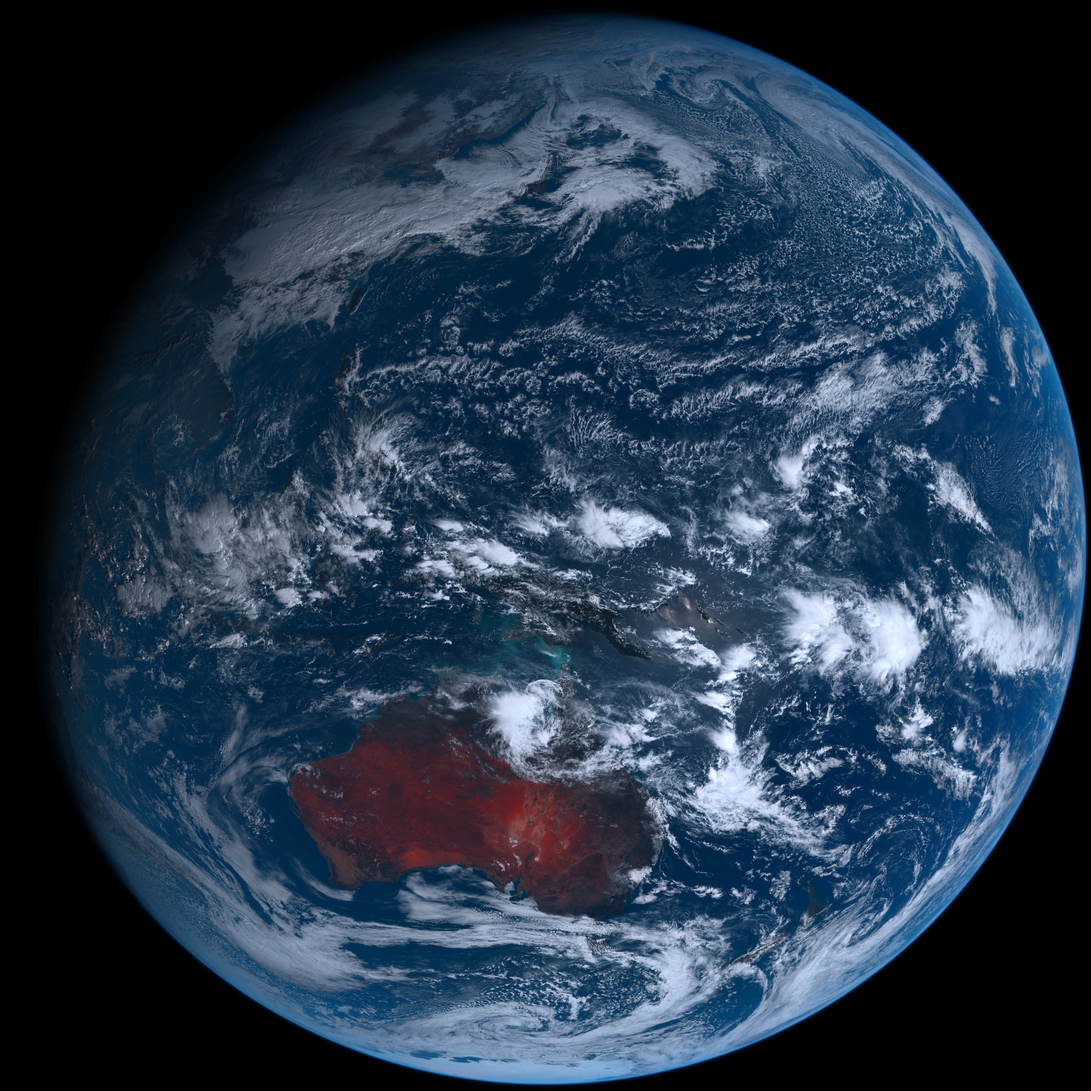
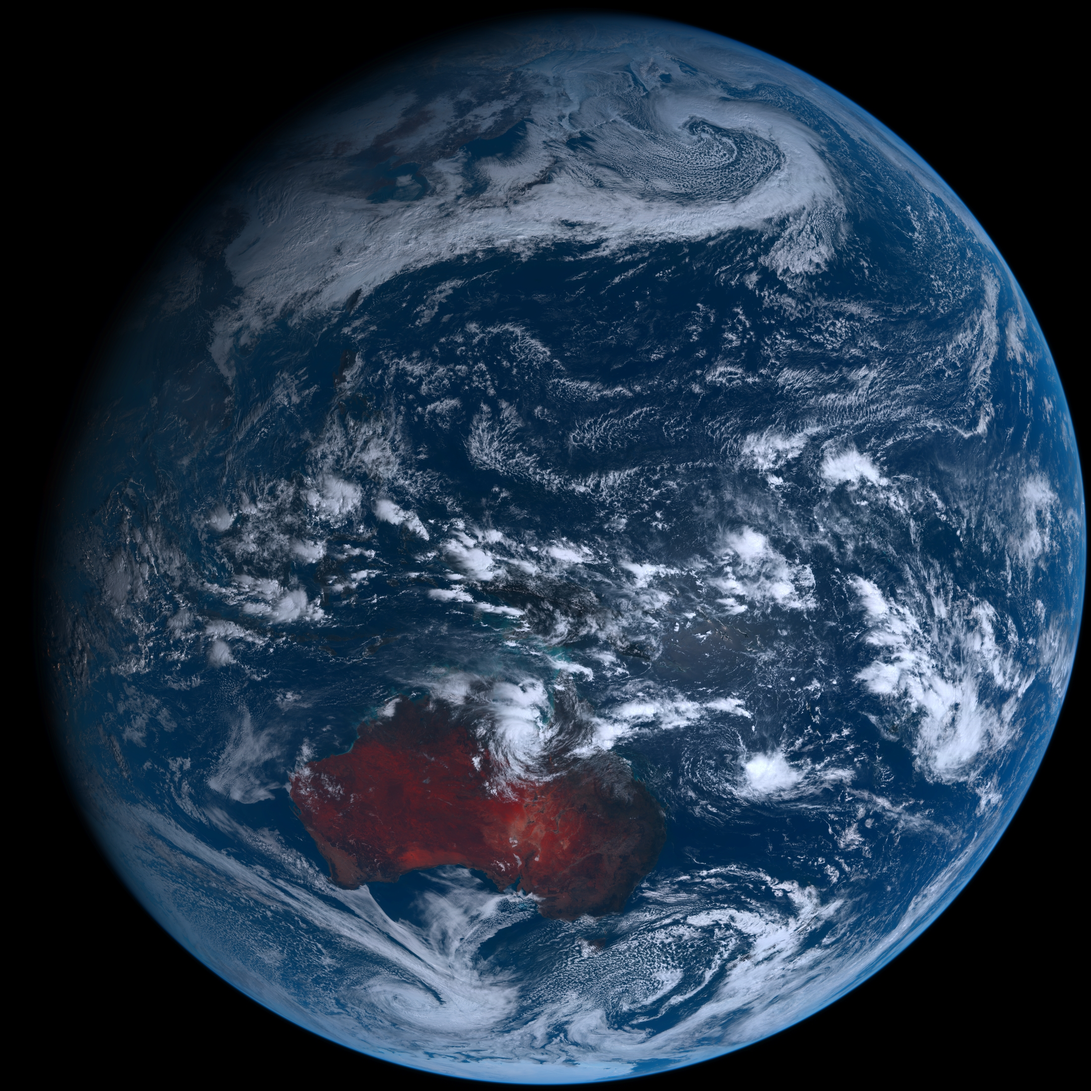
Friday 02/02/2024 03:09 +00

diff --git a/README.md b/README.md
@@ -1,12 +1,12 @@
 # ps1
 
 - ### [BingWallpaper](https://github.com/milankomaj/ps1/wiki/BingWallpaper)  [![Generate Wallpapers Github README.md](https://github.com/milankomaj/ps1/actions/workflows/GenWall.yml/badge.svg?event=schedule)](https://github.com/milankomaj/ps1/actions/workflows/GenWall.yml)
-- ##### Thursday 01/02/2024 03:09:00 +00
+- ##### Friday 02/02/2024 03:08:41 +00
 <img src="BingWallpaper/latest.jpg" width="700" height="auto" title="👉  BingWallpaper  👈">
-Sassnitz lighthouse, Rügen, Germany (© Christian Back/Huber/eStock Photo)
+Twickenham Stadium, London, England (© David Davies/PA Images/Getty Images)
 
 - ### [Himawari](https://github.com/milankomaj/ps1/wiki/Himawari) [![Generate Wallpapers Github README.md](https://github.com/milankomaj/ps1/actions/workflows/GenWall.yml/badge.svg?event=schedule)](https://github.com/milankomaj/ps1/actions/workflows/GenWall.yml) [![Video](https://github.com/milankomaj/ps1/actions/workflows/video.yml/badge.svg?event=schedule)](https://github.com/milankomaj/ps1/actions/workflows/video.yml)
-- ##### Thursday 01/02/2024 03:09:36 +00
+- ##### Friday 02/02/2024 03:09:16 +00
 <img src="Himawari/latest.jpg" width="auto" height="371" title="👉  Himawari  👈"> <img src="Himawari/pifd/himawari_pifd.webp" width="auto" height="371"/>
 
 
